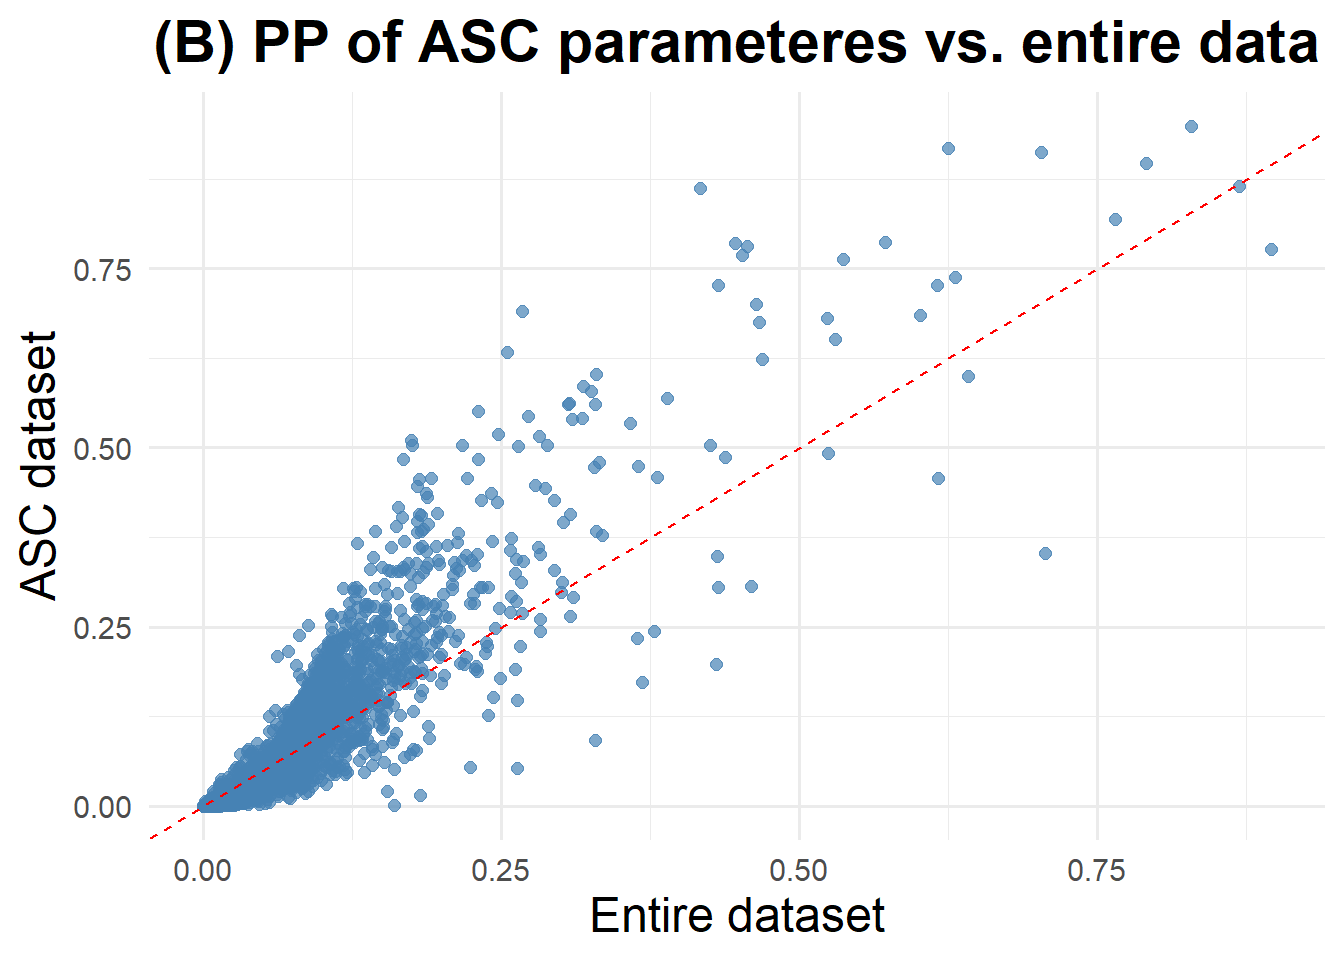
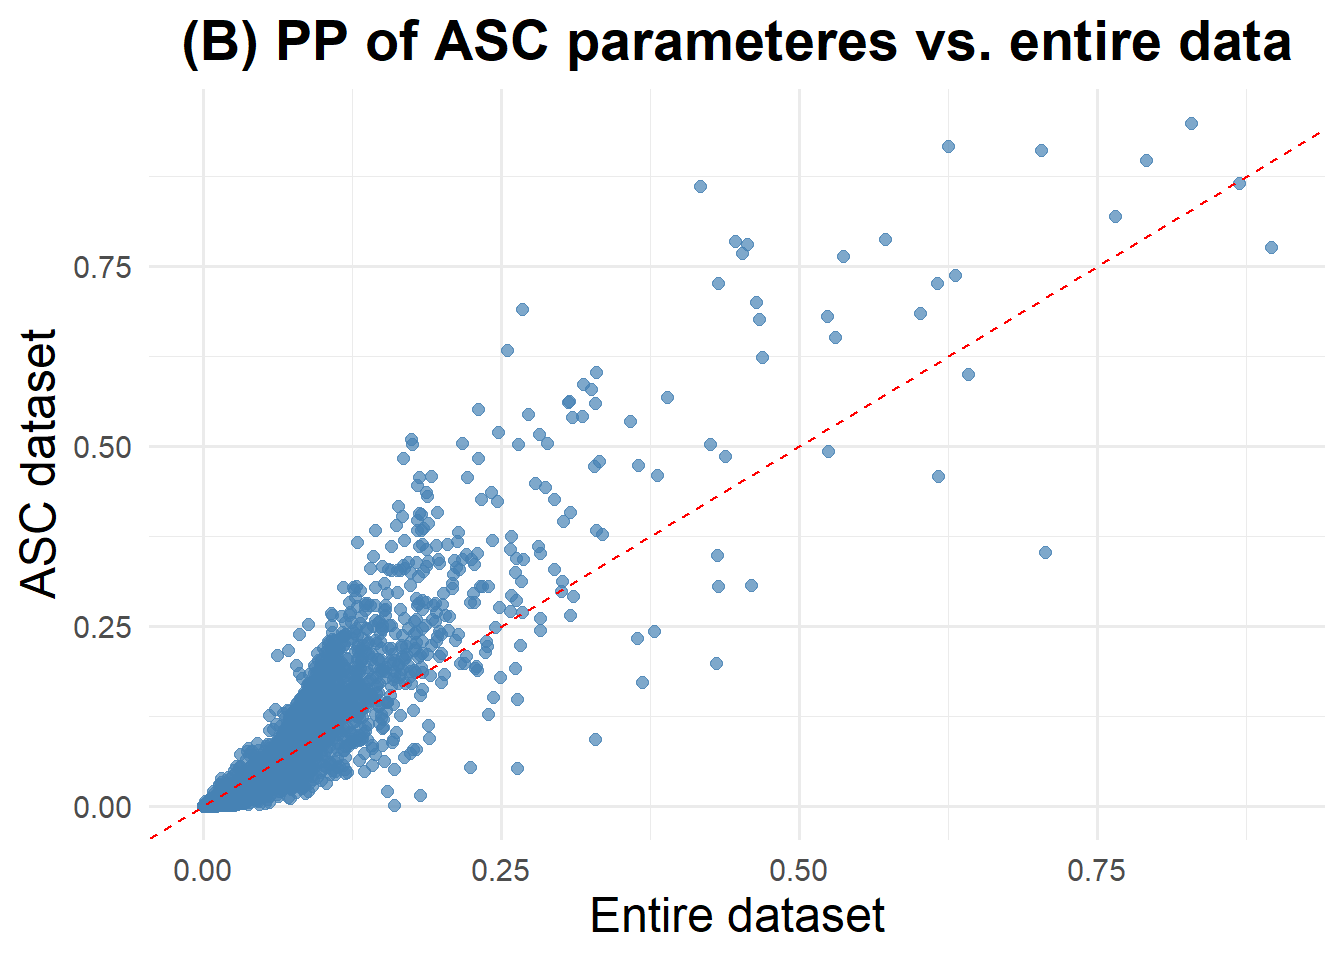
8/11/2025

diff --git a/docs/cross_cohort_validation.html b/docs/cross_cohort_validation.html
@@ -617,7 +617,7 @@ ggplot(merged_df, aes(x = post.prob_entire, y = post.prob_entire_with_SPARK_para
   theme(
     axis.title.x = element_text(size = 18),
     axis.title.y = element_text(size = 18), 
-    plot.title = element_text(size = 22, hjust = 0.5, face = &quot;bold&quot;)  # Center + enlarge + bold
+    plot.title = element_text(size = 21, hjust = 0.5, face = &quot;bold&quot;)  # Center + enlarge + bold
   )</code></pre>
 <p><img src="cross_cohort_validation_files/figure-html/unnamed-chunk-15-1.png" width="672" /></p>
 </div>
@@ -669,7 +669,7 @@ ggplot(merged_df, aes(x = post.prob_entire, y = post.prob_entire_with_ASC_parame
   theme(
     axis.title.x = element_text(size = 18),
     axis.title.y = element_text(size = 18), 
-    plot.title = element_text(size = 22, hjust = 0.5, face = &quot;bold&quot;)  # Center + enlarge + bold
+    plot.title = element_text(size = 21, hjust = 0.5, face = &quot;bold&quot;)  # Center + enlarge + bold
   )</code></pre>
 <p><img src="cross_cohort_validation_files/figure-html/unnamed-chunk-19-1.png" width="672" /></p>
 </div>
